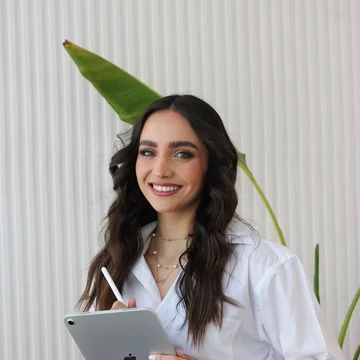
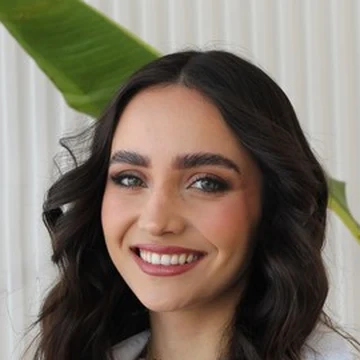
Link na bio: capas novas, botões coloridos, +800 alunos, estúdio minimalista, foto mais próxima
Claude-Session: https://claude.ai/code/session_01K9pSW4jtzUB9MAu1uUdj9v

diff --git a/index.html b/index.html
@@ -21,6 +21,8 @@ fbq('init','874750447646279');fbq('track','PageView');
 </script>
 <noscript><img height="1" width="1" style="display:none" src="https://www.facebook.com/tr?id=874750447646279&ev=PageView&noscript=1" alt=""></noscript>
 
+<link rel="preconnect" href="https://fonts.googleapis.com">
+<link rel="stylesheet" href="https://fonts.googleapis.com/css2?family=Inter:wght@400;500;600&display=swap">
 <link rel="stylesheet" href="assets/css/escola.css">
 <style>
 /* Página inicial: coluna única no celular, grade no computador.
@@ -39,60 +41,44 @@ fbq('init','874750447646279');fbq('track','PageView');
 .bio section{padding:0}
 .bloco{margin-top:56px}
 .bloco>.eyebrow{display:block;text-align:center;margin-bottom:18px}
-/* cursos */
-.cursos{display:grid;grid-template-columns:repeat(3,1fr);gap:16px}
-.curso{--c:#ff58fc;position:relative;display:flex;flex-direction:column;border-radius:24px;overflow:hidden;background:var(--card);border:1px solid var(--line);box-shadow:var(--card-shadow);transition:transform .3s,box-shadow .3s}
-.curso:hover{transform:translateY(-4px);box-shadow:0 1px 2px rgba(26,11,26,.04),0 24px 44px -24px color-mix(in srgb,var(--c) 55%,transparent)}
-.curso .capa{position:relative;aspect-ratio:16/10;overflow:hidden;background:color-mix(in srgb,var(--c) 14%,#fff)}
-.curso .capa img{width:100%;height:100%;object-fit:cover;transition:transform .5s}
-.curso:hover .capa img{transform:scale(1.04)}
-.curso .capa.logo-only{display:grid;place-items:center;background:radial-gradient(70% 80% at 30% 20%,color-mix(in srgb,var(--c) 22%,#fff),color-mix(in srgb,var(--c) 8%,#fff))}
-.curso .capa.logo-only img{width:58%;height:auto;object-fit:contain}
-.curso .nivel{position:absolute;left:14px;top:14px;font-size:11.5px;font-weight:700;letter-spacing:.06em;text-transform:uppercase;padding:6px 11px;border-radius:999px;background:var(--c);color:var(--ci,#fff)}
-.curso .corpo{display:flex;flex-direction:column;gap:8px;padding:20px 22px 22px;flex:1}
-.curso .logo{height:24px;width:auto;align-self:flex-start}
-.curso p{color:var(--muted);font-size:15px;line-height:1.45;flex:1}
-.curso .ir{display:flex;align-items:center;justify-content:space-between;margin-top:6px;font-weight:600;font-size:15px}
-.curso .ir i{width:34px;height:34px;border-radius:50%;display:grid;place-items:center;background:var(--c);color:var(--ci,#fff);font-style:normal;transition:transform .2s}
-.curso:hover .ir i{transform:translateX(3px)}
-/* produtos e links */
-.produtos{display:grid;grid-template-columns:1.2fr 1fr;gap:16px}
-.kit{display:grid;grid-template-columns:1fr;border-radius:24px;overflow:hidden;background:var(--card);border:1px solid var(--line);box-shadow:var(--card-shadow);transition:transform .3s}
-.kit:hover{transform:translateY(-4px)}
-.kit .capa{background:linear-gradient(140deg,#f6f6f6,#ececec);display:grid;place-items:center;padding:14px 10px 0}
-.kit .capa img{width:92%}
-.kit .corpo{padding:18px 22px 22px;display:flex;flex-direction:column;gap:8px}
-.kit .logo{height:46px;width:auto;align-self:flex-start}
-.kit p{color:var(--muted);font-size:15px}
-.kit .ir{font-weight:600;font-size:15px}
-.links{display:grid;gap:12px;align-content:start}
-.lk{display:flex;align-items:center;gap:14px;padding:16px 18px;border-radius:18px;background:var(--card);border:1px solid var(--line);box-shadow:var(--card-shadow);transition:transform .2s,border-color .2s}
+/* cursos e produtos: capa + texto + botão na cor de cada um */
+.mais800{display:inline-flex;align-items:center;gap:10px;font-size:14.5px;color:var(--muted);margin-top:2px}
+.mais800 img{height:30px;width:auto;border-radius:999px}
+.mais800 b{color:var(--txt);font-weight:600}
+.cards{display:grid;grid-template-columns:repeat(3,1fr);gap:16px}
+.card{--c:#1a0b1a;--ci:#fff;display:flex;flex-direction:column;border-radius:22px;overflow:hidden;background:var(--card);border:1px solid var(--line);box-shadow:var(--card-shadow);transition:transform .3s,box-shadow .3s}
+.card:hover{transform:translateY(-4px);box-shadow:0 1px 2px rgba(26,11,26,.04),0 24px 44px -24px color-mix(in srgb,var(--c) 55%,transparent)}
+.card .capa{aspect-ratio:16/9;overflow:hidden;background:#eee}
+.card .capa img{width:100%;height:100%;object-fit:cover;transition:transform .5s}
+.card:hover .capa img{transform:scale(1.03)}
+.card .corpo{display:flex;flex-direction:column;gap:14px;padding:18px 20px 20px;flex:1}
+.card .tag{align-self:flex-start;font-size:11px;font-weight:700;letter-spacing:.06em;text-transform:uppercase;padding:5px 10px;border-radius:999px;background:color-mix(in srgb,var(--c) 12%,#fff);color:var(--c)}
+.card p{color:var(--muted);font-size:15px;line-height:1.45;flex:1}
+.card .bt{display:flex;align-items:center;justify-content:center;gap:8px;padding:13px 16px;border-radius:999px;background:var(--c);color:var(--ci);font-weight:600;font-size:15px;letter-spacing:-.01em;transition:filter .2s}
+.card .bt span{transition:transform .2s}
+.card:hover .bt{filter:brightness(1.06)}
+.card:hover .bt span{transform:translateX(3px)}
+.lk{display:flex;align-items:center;gap:14px;padding:16px 18px;border-radius:18px;background:var(--card);border:1px solid var(--line);box-shadow:var(--card-shadow);transition:transform .2s,border-color .2s;margin-top:16px}
 .lk:hover{transform:translateY(-2px);border-color:var(--line-2)}
 .lk .ic{flex:none;width:44px;height:44px;border-radius:13px;display:grid;place-items:center;background:var(--b,#1a0b1a);color:#fff}
 .lk .ic svg{width:21px;height:21px;stroke:currentColor}
 .lk b{display:block;font-weight:600;font-size:16px;letter-spacing:-.01em}
 .lk span{display:block;font-size:13.5px;color:var(--muted);margin-top:1px}
 .lk .tg{margin-left:auto;flex:none;font-size:11px;font-weight:700;letter-spacing:.06em;text-transform:uppercase;padding:5px 9px;border-radius:999px;background:#E6FF7D;color:#24104A}
-/* estúdio */
-.estudio{position:relative;overflow:hidden;border-radius:28px;background:#1a0b1a;color:#fff;padding:40px;display:grid;grid-template-columns:1.2fr 1fr;gap:30px;align-items:center}
-.estudio::before{content:"";position:absolute;right:-12%;top:-40%;width:60%;aspect-ratio:1;border-radius:50%;background:radial-gradient(closest-side,rgba(255,88,252,.35),transparent)}
-.estudio::after{content:"";position:absolute;left:-10%;bottom:-50%;width:50%;aspect-ratio:1;border-radius:50%;background:radial-gradient(closest-side,rgba(145,49,246,.35),transparent)}
-.estudio>*{position:relative;z-index:1}
-.estudio .eyebrow{color:rgba(255,255,255,.6)}
-.estudio h2{font-size:clamp(28px,3.4vw,40px)}
-.estudio p{color:rgba(255,255,255,.75);margin-top:12px;max-width:46ch}
+/* estúdio: identidade minimalista (preto, branco, cinza, Inter) */
+.estudio{font-family:"Inter","Helvetica Neue",Arial,sans-serif;border-radius:24px;background:#fff;color:#111;border:1px solid #e6e6e6;padding:40px;display:grid;grid-template-columns:1.3fr 1fr;gap:30px;align-items:center}
+.estudio .marca{font-size:13px;font-weight:600;letter-spacing:.24em;text-transform:uppercase;color:#111}
+.estudio .marca small{display:block;font-weight:400;letter-spacing:.18em;color:#8a8a8a;font-size:11px;margin-top:4px}
+.estudio h2{font-family:inherit;font-size:clamp(26px,3vw,36px);font-weight:600;letter-spacing:-.03em;margin-top:22px;color:#111}
+.estudio p{color:#6b6b6b;margin-top:10px;max-width:46ch;font-size:15.5px}
 .estudio .acoes{display:grid;gap:10px}
-.estudio .btn{width:100%}
-.estudio .btn.ghost{color:#fff;box-shadow:0 0 0 1px rgba(255,255,255,.3) inset}
-.estudio .btn.ghost:hover{background:rgba(255,255,255,.08)}
-.posts{position:absolute;inset:0;display:grid;place-items:center}
-.post{position:absolute;width:30%;aspect-ratio:4/5;border-radius:10px;box-shadow:0 16px 28px -14px rgba(40,16,140,.55);padding:9%  6%;display:flex;flex-direction:column;gap:6%}
-.post i{display:block;height:6%;border-radius:9px;background:currentColor;opacity:.85}
-.post i.s{width:60%}.post i.xs{width:40%;opacity:.5}
-.post.p1{background:#fff;color:#6032FD;transform:translateX(-62%) rotate(-10deg)}
-.post.p2{background:#6032FD;color:#fff;z-index:2;transform:translateY(-4%)}
-.post.p3{background:#E6FF7D;color:#24104A;transform:translateX(62%) rotate(10deg)}
-.post .dots{margin-top:auto;display:flex;gap:4px}.post .dots b{width:5px;height:5px;border-radius:50%;background:currentColor;opacity:.4}.post .dots b:first-child{opacity:1}
+.estudio .eb{display:flex;align-items:center;justify-content:center;gap:8px;padding:15px 18px;border-radius:10px;font-weight:500;font-size:15px;transition:background .2s,color .2s}
+.estudio .eb.pri{background:#111;color:#fff}
+.estudio .eb.pri:hover{background:#333}
+.estudio .eb.sec{border:1px solid #d8d8d8;color:#111}
+.estudio .eb.sec:hover{background:#f4f4f4}
+@media (max-width:960px){.cards{grid-template-columns:1fr 1fr}.estudio{grid-template-columns:1fr}}
+@media (max-width:640px){.bio{padding:40px 16px 80px}.cards{grid-template-columns:1fr}.estudio{padding:28px 22px}.bloco{margin-top:44px}}
 .rod{margin-top:56px;text-align:center;font-size:13px;color:var(--dim)}
 @media (max-width:960px){.cursos{grid-template-columns:1fr 1fr}.produtos,.estudio{grid-template-columns:1fr}}
 @media (max-width:640px){.bio{padding:40px 16px 80px}.cursos{grid-template-columns:1fr}.curso .capa{aspect-ratio:16/8}.estudio{padding:28px 22px}.bloco{margin-top:44px}}
@@ -104,11 +90,11 @@ fbq('init','874750447646279');fbq('track','PageView');
 
   <header class="perfil">
     <div class="avatar rv"><img src="assets/img/inicio/lari.webp" alt="Lari Tedeschi" width="104" height="104"></div>
-    <span class="pillbar rv"><img src="https://framerusercontent.com/images/SQ4yLeYZ60qTb0bUkWQkLVtsBw.png" alt=""><span><b>+800 alunos</b> na escola da Lari Tedeschi</span></span>
     <h1 class="rv">Lari Tedeschi</h1>
     <p class="sub rv">Designer de marcas e professora de Figma. Aqui estão todos os meus cursos, produtos e o meu estúdio.</p>
+    <span class="mais800 rv"><img src="assets/img/comum/alunos.webp" alt=""><span><b>+800 alunos</b></span></span>
     <nav class="redes rv" aria-label="Redes sociais">
-      <a href="https://www.instagram.com/laritedeschi" target="_blank" rel="noopener" aria-label="Instagram"><svg viewBox="0 0 24 24"><path d="M12 2.2c3.2 0 3.6 0 4.8.1 1.2.1 1.8.2 2.2.4.6.2 1 .5 1.4.9.4.4.7.8.9 1.4.2.4.4 1 .4 2.2.1 1.3.1 1.6.1 4.8s0 3.6-.1 4.8c-.1 1.2-.2 1.8-.4 2.2-.2.6-.5 1-.9 1.4-.4.4-.8.7-1.4.9-.4.2-1 .4-2.2.4-1.3.1-1.6.1-4.8.1s-3.6 0-4.8-.1c-1.2-.1-1.8-.2-2.2-.4-.6-.2-1-.5-1.4-.9-.4-.4-.7-.8-.9-1.4-.2-.4-.4-1-.4-2.2C2.2 15.6 2.2 15.2 2.2 12s0-3.6.1-4.8c.1-1.2.2-1.8.4-2.2.2-.6.5-1 .9-1.4.4-.4.8-.7 1.4-.9.4-.2 1-.4 2.2-.4C8.4 2.2 8.8 2.2 12 2.2zm0 1.8c-3.1 0-3.5 0-4.7.1-1.1.1-1.7.2-2.1.4-.5.2-.9.4-1.2.8-.4.4-.6.7-.8 1.2-.2.4-.3 1-.4 2.1C2.7 9.8 2.7 10.2 2.7 12s0 3.5.1 4.7c.1 1.1.2 1.7.4 2.1.2.5.4.9.8 1.2.4.4.7.6 1.2.8.4.2 1 .3 2.1.4 1.2.1 1.6.1 4.7.1s3.5 0 4.7-.1c1.1-.1 1.7-.2 2.1-.4.5-.2.9-.4 1.2-.8.4-.4.6-.7.8-1.2.2-.4.3-1 .4-2.1.1-1.2.1-1.6.1-4.7s0-3.5-.1-4.7c-.1-1.1-.2-1.7-.4-2.1-.2-.5-.4-.9-.8-1.2-.4-.4-.7-.6-1.2-.8-.4-.2-1-.3-2.1-.4C15.5 4 15.1 4 12 4zm0 3.1a4.9 4.9 0 1 1 0 9.8 4.9 4.9 0 0 1 0-9.8zm0 8.1a3.2 3.2 0 1 0 0-6.4 3.2 3.2 0 0 0 0 6.4zm6.2-8.3a1.1 1.1 0 1 1-2.3 0 1.1 1.1 0 0 1 2.3 0z"/></svg></a>
+      <a href="https://www.instagram.com/laritedeschi" target="_blank" rel="noopener" aria-label="Instagram"><svg viewBox="0 0 24 24" style="fill:none;stroke:var(--txt);stroke-width:2"><rect x="3" y="3" width="18" height="18" rx="5"/><circle cx="12" cy="12" r="4"/><circle cx="17.4" cy="6.6" r="1" style="fill:var(--txt);stroke:none"/></svg></a>
       <a href="https://www.youtube.com/@laritedeschi" target="_blank" rel="noopener" aria-label="YouTube"><svg viewBox="0 0 24 24"><path d="M23 7.2a3 3 0 0 0-2.1-2.1C19 4.6 12 4.6 12 4.6s-7 0-8.9.5A3 3 0 0 0 1 7.2C.5 9.1.5 12 .5 12s0 2.9.5 4.8a3 3 0 0 0 2.1 2.1c1.9.5 8.9.5 8.9.5s7 0 8.9-.5a3 3 0 0 0 2.1-2.1c.5-1.9.5-4.8.5-4.8s0-2.9-.5-4.8zM9.7 15.5v-7l6 3.5-6 3.5z"/></svg></a>
       <a href="https://www.tiktok.com/@laritedeschi" target="_blank" rel="noopener" aria-label="TikTok"><svg viewBox="0 0 24 24"><path d="M16.6 2h-3.4v13.4a2.9 2.9 0 1 1-2.9-2.9c.3 0 .6 0 .9.1V9.1a6.3 6.3 0 1 0 5.4 6.3V8.6a8 8 0 0 0 4.7 1.5V6.7a4.7 4.7 0 0 1-4.7-4.7z"/></svg></a>
       <a href="https://br.pinterest.com/laristedeschi/" target="_blank" rel="noopener" aria-label="Pinterest"><svg viewBox="0 0 24 24"><path d="M12 1.5a10.5 10.5 0 0 0-3.8 20.3c-.1-.9-.2-2.2 0-3.2l1.3-5.5s-.3-.7-.3-1.6c0-1.5.9-2.7 2-2.7.9 0 1.4.7 1.4 1.5 0 .9-.6 2.3-.9 3.6-.3 1.1.5 2 1.6 2 1.9 0 3.4-2 3.4-5 0-2.6-1.9-4.4-4.5-4.4-3.1 0-4.9 2.3-4.9 4.7 0 .9.4 1.9.8 2.5.1.1.1.2.1.3l-.3 1.2c0 .2-.2.3-.4.2-1.4-.6-2.2-2.6-2.2-4.2 0-3.4 2.5-6.6 7.2-6.6 3.8 0 6.7 2.7 6.7 6.3 0 3.8-2.4 6.8-5.7 6.8-1.1 0-2.2-.6-2.5-1.3l-.7 2.6c-.2 1-.9 2.2-1.4 2.9A10.5 10.5 0 1 0 12 1.5z"/></svg></a>
@@ -118,73 +104,55 @@ fbq('init','874750447646279');fbq('track','PageView');
 
   <section class="bloco" aria-labelledby="t-cursos">
     <span class="eyebrow" id="t-cursos">Cursos</span>
-    <div class="cursos">
-      <a class="curso rv" href="figlogo/" style="--c:#ff58fc">
-        <div class="capa"><img src="assets/img/figlogo/modulos/01-comece-por-aqui.webp" alt="" loading="lazy"><span class="nivel">Primeiro passo</span></div>
-        <div class="corpo">
-          <img class="logo" src="assets/img/figlogo/logo-figlogo-escuro.png" alt="FigLogo" height="24">
-          <p>Aprenda a criar logotipos profissionais no Figma, do briefing à entrega, começando do zero.</p>
-          <span class="ir">Conhecer o FigLogo <i>→</i></span>
-        </div>
+    <div class="cards">
+      <a class="card rv" href="figlogo/" style="--c:#ff58fc;--ci:#fff">
+        <div class="capa"><img src="assets/img/figlogo/capa-figlogo.webp" alt="FigLogo" loading="lazy" width="1200" height="675"></div>
+        <div class="corpo"><span class="tag">Primeiro passo</span><p>Aprenda a criar logotipos profissionais no Figma, do briefing à entrega, começando do zero.</p><span class="bt">Conhecer o FigLogo <span>→</span></span></div>
       </a>
-      <a class="curso rv" href="figbrand/" style="--c:#9131F6">
-        <div class="capa"><img src="assets/img/figbrand/tudo-que-voce-recebe.webp" alt="" loading="lazy" style="object-fit:contain;padding:10px 8px 0"><span class="nivel" style="--ci:#24104A;background:#E6FF7D">Curso avançado</span></div>
-        <div class="corpo">
-          <img class="logo" src="assets/img/figbrand/logo-figbrand-escuro.png" alt="FigBrand" height="24">
-          <p>Identidade visual estratégica, do briefing à entrega, com hotseat mensal e correção do projeto final.</p>
-          <span class="ir">Conhecer o FigBrand <i>→</i></span>
-        </div>
+      <a class="card rv" href="figbrand/" style="--c:#9131F6;--ci:#fff">
+        <div class="capa"><img src="assets/img/figbrand/capa-figbrand.webp" alt="FigBrand" loading="lazy" width="1200" height="675"></div>
+        <div class="corpo"><span class="tag">Curso avançado</span><p>Identidade visual estratégica, do briefing à entrega, com hotseat mensal e correção do projeto final.</p><span class="bt">Conhecer o FigBrand <span>→</span></span></div>
       </a>
-      <a class="curso rv" href="figpost/" style="--c:#6032FD">
-        <div class="capa logo-only"><div class="posts" aria-hidden="true"><div class="post p1"><i></i><i class="s"></i><i class="xs"></i><span class="dots"><b></b><b></b><b></b></span></div><div class="post p2"><i></i><i class="s"></i><i class="xs"></i><span class="dots"><b></b><b></b><b></b></span></div><div class="post p3"><i></i><i class="s"></i><i class="xs"></i><span class="dots"><b></b><b></b><b></b></span></div></div><span class="nivel">Posts e carrosséis</span></div>
-        <div class="corpo">
-          <img class="logo" src="assets/img/figpost/logo-figpost.png" alt="FigPost" height="24">
-          <p>Crie posts e carrosséis no Figma e estruture o seu estúdio com preço, posicionamento e processos.</p>
-          <span class="ir">Conhecer o FigPost <i>→</i></span>
-        </div>
+      <a class="card rv" href="figpost/" style="--c:#6032FD;--ci:#fff">
+        <div class="capa"><img src="assets/img/figpost/capa-figpost.webp" alt="FigPost" loading="lazy" width="1200" height="675"></div>
+        <div class="corpo"><span class="tag">Posts e carrosséis</span><p>Crie posts e carrosséis no Figma e estruture o seu estúdio com preço, posicionamento e processos.</p><span class="bt">Conhecer o FigPost <span>→</span></span></div>
       </a>
     </div>
   </section>
 
   <section class="bloco" aria-labelledby="t-produtos">
     <span class="eyebrow" id="t-produtos">Produtos e materiais</span>
-    <div class="produtos">
-      <a class="kit rv" href="kit-design-studio/">
-        <div class="capa"><img src="assets/img/kit/capa-kit.webp" alt="Templates do Kit Design Studio em computador e notebook" loading="lazy"></div>
-        <div class="corpo">
-          <img class="logo" src="assets/img/kit/logo-kit-escuro.png" alt="Kit Design Studio" height="46">
-          <p>Templates editáveis de contrato, proposta, apresentação, manual de marca e mais, para estruturar o seu estúdio em um dia.</p>
-          <span class="ir">Conhecer o Kit →</span>
-        </div>
+    <div class="cards">
+      <a class="card rv" href="kit-design-studio/" style="--c:#111111;--ci:#fff">
+        <div class="capa"><img src="assets/img/kit/capa-kit-logo.webp" alt="Kit Design Studio" loading="lazy" width="1200" height="675"></div>
+        <div class="corpo"><span class="tag">Templates</span><p>Contrato, proposta, apresentação, manual de marca e mais, para estruturar o seu estúdio em um dia.</p><span class="bt">Conhecer o Kit <span>→</span></span></div>
       </a>
-      <div class="links">
-        <a class="lk rv" href="https://dashboardfinanceiro.com/comprar/" style="--b:#16a34a">
-          <span class="ic"><svg viewBox="0 0 24 24" fill="none" stroke-width="1.9" stroke-linecap="round" stroke-linejoin="round"><path d="M3 3v18h18"/><path d="M7 15l4-4 3 3 5-6"/></svg></span>
-          <span><b>Dashboard Financeiro</b><span>Controle as suas finanças sem planilhas</span></span>
-        </a>
-        <a class="lk rv" href="https://pay.kiwify.com.br/qJBo7ZT" style="--b:#1a0b1a">
-          <span class="ic"><svg viewBox="0 0 24 24" fill="none" stroke-width="1.9" stroke-linecap="round" stroke-linejoin="round"><rect x="4" y="3" width="16" height="18" rx="2"/><path d="M8 7h8M8 11h8M8 15h5"/></svg></span>
-          <span><b>Notion Studio</b><span>Organize as demandas do seu estúdio</span></span>
-        </a>
-        <a class="lk rv" href="https://www.youtube.com/watch?v=lXFQ3i07KpI&list=PL0T5evEVNjRajBXQktFJn4cANp99YxGO6" target="_blank" rel="noopener" style="--b:#ff0033">
-          <span class="ic"><svg viewBox="0 0 24 24" fill="none" stroke-width="1.9" stroke-linecap="round" stroke-linejoin="round"><rect x="3" y="5" width="18" height="14" rx="3"/><path d="M10 9l5 3-5 3z"/></svg></span>
-          <span><b>Mini curso de Figma</b><span>Aulas gratuitas para começar</span></span>
-          <span class="tg">Grátis</span>
-        </a>
-      </div>
+      <a class="card rv" href="https://dashboardfinanceiro.com/comprar/" style="--c:#6C5CE7;--ci:#fff">
+        <div class="capa"><img src="assets/img/inicio/capa-dashboard.webp" alt="Dashboard Financeiro" loading="lazy" width="1200" height="675"></div>
+        <div class="corpo"><span class="tag">Assinatura</span><p>Um dashboard visual e organizado para controlar as suas finanças sem planilhas.</p><span class="bt">Conhecer o Dashboard <span>→</span></span></div>
+      </a>
+      <a class="card rv" href="https://pay.kiwify.com.br/qJBo7ZT" style="--c:#FF58FC;--ci:#fff">
+        <div class="capa"><img src="assets/img/inicio/capa-notion-studio.webp" alt="Template Notion Studio" loading="lazy" width="1200" height="675"></div>
+        <div class="corpo"><span class="tag">Template Notion</span><p>Organize as demandas do seu estúdio no Notion, com dashboard para o cliente.</p><span class="bt">Conhecer o Notion Studio <span>→</span></span></div>
+      </a>
     </div>
+    <a class="lk rv" href="https://www.youtube.com/watch?v=lXFQ3i07KpI&amp;list=PL0T5evEVNjRajBXQktFJn4cANp99YxGO6" target="_blank" rel="noopener" style="--b:#ff0033">
+      <span class="ic"><svg viewBox="0 0 24 24" fill="none" stroke-width="1.9" stroke-linecap="round" stroke-linejoin="round"><rect x="3" y="5" width="18" height="14" rx="3"/><path d="M10 9l5 3-5 3z"/></svg></span>
+      <span><b>Mini curso de Figma</b><span>Aulas gratuitas para começar</span></span>
+      <span class="tg">Grátis</span>
+    </a>
   </section>
 
   <section class="bloco" aria-labelledby="t-estudio">
     <div class="estudio rv">
       <div>
-        <span class="eyebrow" id="t-estudio">Studio Tedeschi</span>
+        <span class="marca" id="t-estudio">Tedeschi Studio<small>Identidade visual</small></span>
         <h2>Precisa de uma marca para o seu negócio?</h2>
         <p>Além de ensinar, eu crio identidades visuais estratégicas para empresas, do conceito à entrega.</p>
       </div>
       <div class="acoes">
-        <a class="btn" href="https://api.whatsapp.com/send/?phone=5541999401055&text=Ol%C3%A1%2C+tenho+interesse+em+um+projeto+para+minha+marca%21" target="_blank" rel="noopener">Pedir um orçamento <span class="arr">→</span></a>
-        <a class="btn ghost" href="https://www.behance.net/larissatedeschi" target="_blank" rel="noopener">Ver o portfólio</a>
+        <a class="eb pri" href="https://api.whatsapp.com/send/?phone=5541999401055&amp;text=Ol%C3%A1%2C+tenho+interesse+em+um+projeto+para+minha+marca%21" target="_blank" rel="noopener">Pedir um orçamento →</a>
+        <a class="eb sec" href="https://www.behance.net/larissatedeschi" target="_blank" rel="noopener">Ver o portfólio</a>
       </div>
     </div>
   </section>

diff --git a/figbrand/index.html b/figbrand/index.html
@@ -131,7 +131,7 @@ fbq('init','874750447646279');fbq('track','PageView');fbq('track','ViewContent',
 <header class="hero">
   <div class="bgfx"><div class="glow"></div></div>
   <div class="wrap">
-    <span class="pillbar"><img src="https://framerusercontent.com/images/SQ4yLeYZ60qTb0bUkWQkLVtsBw.png" alt=""><span><b>+800 alunos</b> na escola da Lari Tedeschi</span></span>
+    <span class="pillbar"><img src="../assets/img/comum/alunos.webp" alt=""><span><b>+800 alunos</b> na escola da Lari Tedeschi</span></span>
     <h1 id="h1"><span class="grad">Crie identidades visuais estratégicas,</span> do briefing à entrega.</h1>
     <p class="sub rv">O FigBrand é o método da Lari Tedeschi para construir marcas com conceito e processo. Você aprende a entender a marca, criar com intenção e <strong>defender cada escolha diante do cliente.</strong></p>
     <div class="ctas rv">
